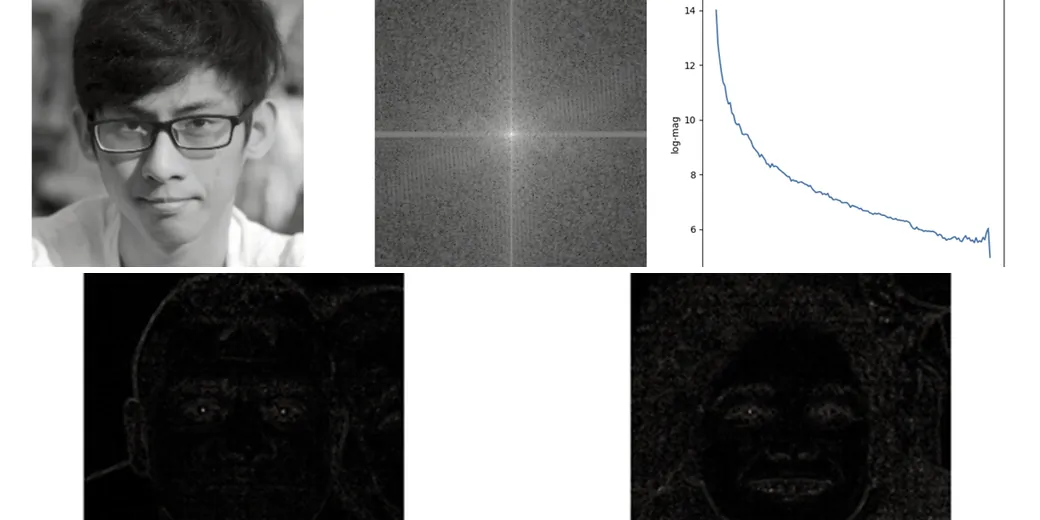
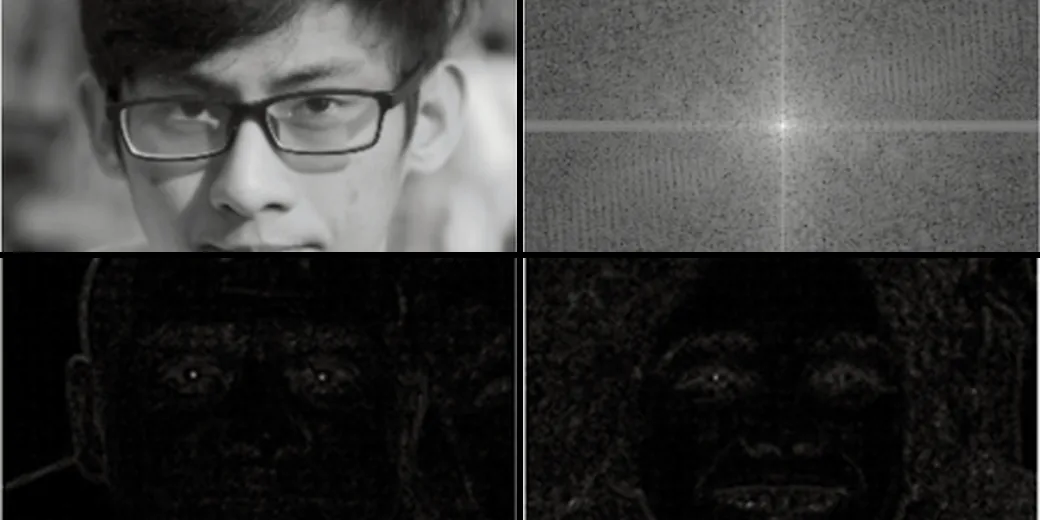
Show a screenshot in both themes, and fix the detail crop
The detail slot had a fixed height, which ran past 4:1 on a wide
overlay. Against a 2:1 frame, cover then showed only the middle half,
which on a stacked figure is the seam between the two plots blown up to
twice its size on the card. The slot is now 2:1 to match both the
artwork and the screenshots, and contains rather than covers so a
capped height letterboxes instead of cutting.

Every project with a screenshot now has one in both themes, by building
each skin rather than falling back to the drawing:

- The deepfake figure is cut down to its panels. Dropping the white
  canvas leaves content that is already dark, so it needs no treatment
  in either theme and the same file serves both.
- The candlestick chart flips by inverting lightness while keeping hue
  and saturation, which suits a chart where the background brightness
  was only ever a theme choice.
- That same flip mangles the LMS, whose sidebar is already dark, so its
  dark skin is the light capture pulled toward the card's ground with
  its chroma held up.

The grade is now barely there. Each file is built for the theme it is
served in, so the brightness match is baked in rather than corrected in
CSS, which leaves the screenshots their own colour.

diff --git a/src/index.css b/src/index.css
@@ -196,13 +196,13 @@
 }
 
 /* ── project screenshots ─────────────────────────── */
-/* A far lighter grade than the scene backdrops. These sit in a card at full
-   strength rather than under type, so the job is only to pull the interface's
-   own hues toward the palette; the heavy desaturation used on the scenes would
-   leave the UI unreadable. Each screenshot is already theme-matched by
-   ProjectVisual, so there is no brightness correction to make here. */
+/* Barely a grade at all. These sit in a card at full strength rather than
+   under type, and every screenshot is already built for the theme it is served
+   in, so the brightness match is baked into the file rather than corrected
+   here. All that is left is a touch of warmth to seat them in the palette,
+   and a little extra saturation so the work keeps its own colour. */
 .shot {
-  filter: grayscale(0.4) sepia(0.2) saturate(0.9) contrast(1.02);
+  filter: sepia(0.1) saturate(1.12) contrast(1.02);
 }
 
 /* ── scene backdrops ─────────────────────────────── */

diff --git a/src/components/ProjectDetail.jsx b/src/components/ProjectDetail.jsx
@@ -62,7 +62,17 @@ export default function ProjectDetail({ project: p, onClose }) {
         </div>
 
         <div className="min-h-0 flex-1 overflow-y-auto overscroll-contain">
-          <ProjectVisual kind={p.visual} shot={p.shot} className="h-[180px] sm:h-[260px]" />
+          {/* 2:1 to match the artwork and the screenshots, rather than a fixed
+              height. At a fixed 260px this slot ran past 4:1 on a wide overlay,
+              and cover then showed only the middle half of the frame: on a
+              stacked figure that is the seam between the two plots, blown up.
+              contain keeps the whole frame when the cap bites. */}
+          <ProjectVisual
+            kind={p.visual}
+            shot={p.shot}
+            fit="contain"
+            className="aspect-[2/1] max-h-[min(42vh,400px)]"
+          />
 
           <motion.div
             initial={{ opacity: 0, y: 18 }}

diff --git a/src/data/portfolio.js b/src/data/portfolio.js
@@ -196,7 +196,7 @@ export const projects = [
     ],
     stack: ['PyTorch', 'OpenCV', 'C++', 'FFT'],
     visual: 'vision',
-    shot: { light: '/shots/vision-light.webp' },
+    shot: { dark: '/shots/vision-dark.webp', light: '/shots/vision-light.webp' },
     github: '',
     demo: '',
   },
@@ -236,7 +236,7 @@ export const projects = [
     ],
     stack: ['React', 'Node.js', 'Express', 'MongoDB', 'AWS S3'],
     visual: 'system',
-    shot: { light: '/shots/kanbas-light.webp' },
+    shot: { dark: '/shots/kanbas-dark.webp', light: '/shots/kanbas-light.webp' },
     github: '',
     demo: '',
   },
@@ -256,7 +256,7 @@ export const projects = [
     ],
     stack: ['Java', 'Swing', 'MVC', 'Alpha Vantage'],
     visual: 'market',
-    shot: { dark: '/shots/market-dark.webp' },
+    shot: { dark: '/shots/market-dark.webp', light: '/shots/market-light.webp' },
     github: '',
     demo: '',
   },

diff --git a/src/components/ProjectVisual.jsx b/src/components/ProjectVisual.jsx
@@ -312,7 +312,7 @@ const MAP = {
  * A project with only one skin therefore falls back to the drawing in the
  * other theme rather than showing a screenshot fighting the page.
  */
-export default function ProjectVisual({ kind, shot, className = '' }) {
+export default function ProjectVisual({ kind, shot, fit = 'cover', className = '' }) {
   const theme = useThemeName()
   const src = typeof shot === 'string' ? shot : shot && shot[theme]
 
@@ -324,7 +324,9 @@ export default function ProjectVisual({ kind, shot, className = '' }) {
           alt=""
           loading="lazy"
           decoding="async"
-          className="shot h-full w-full object-cover object-top"
+          className={`shot h-full w-full ${
+            fit === 'contain' ? 'object-contain' : 'object-cover object-top'
+          }`}
         />
       </div>
     )
